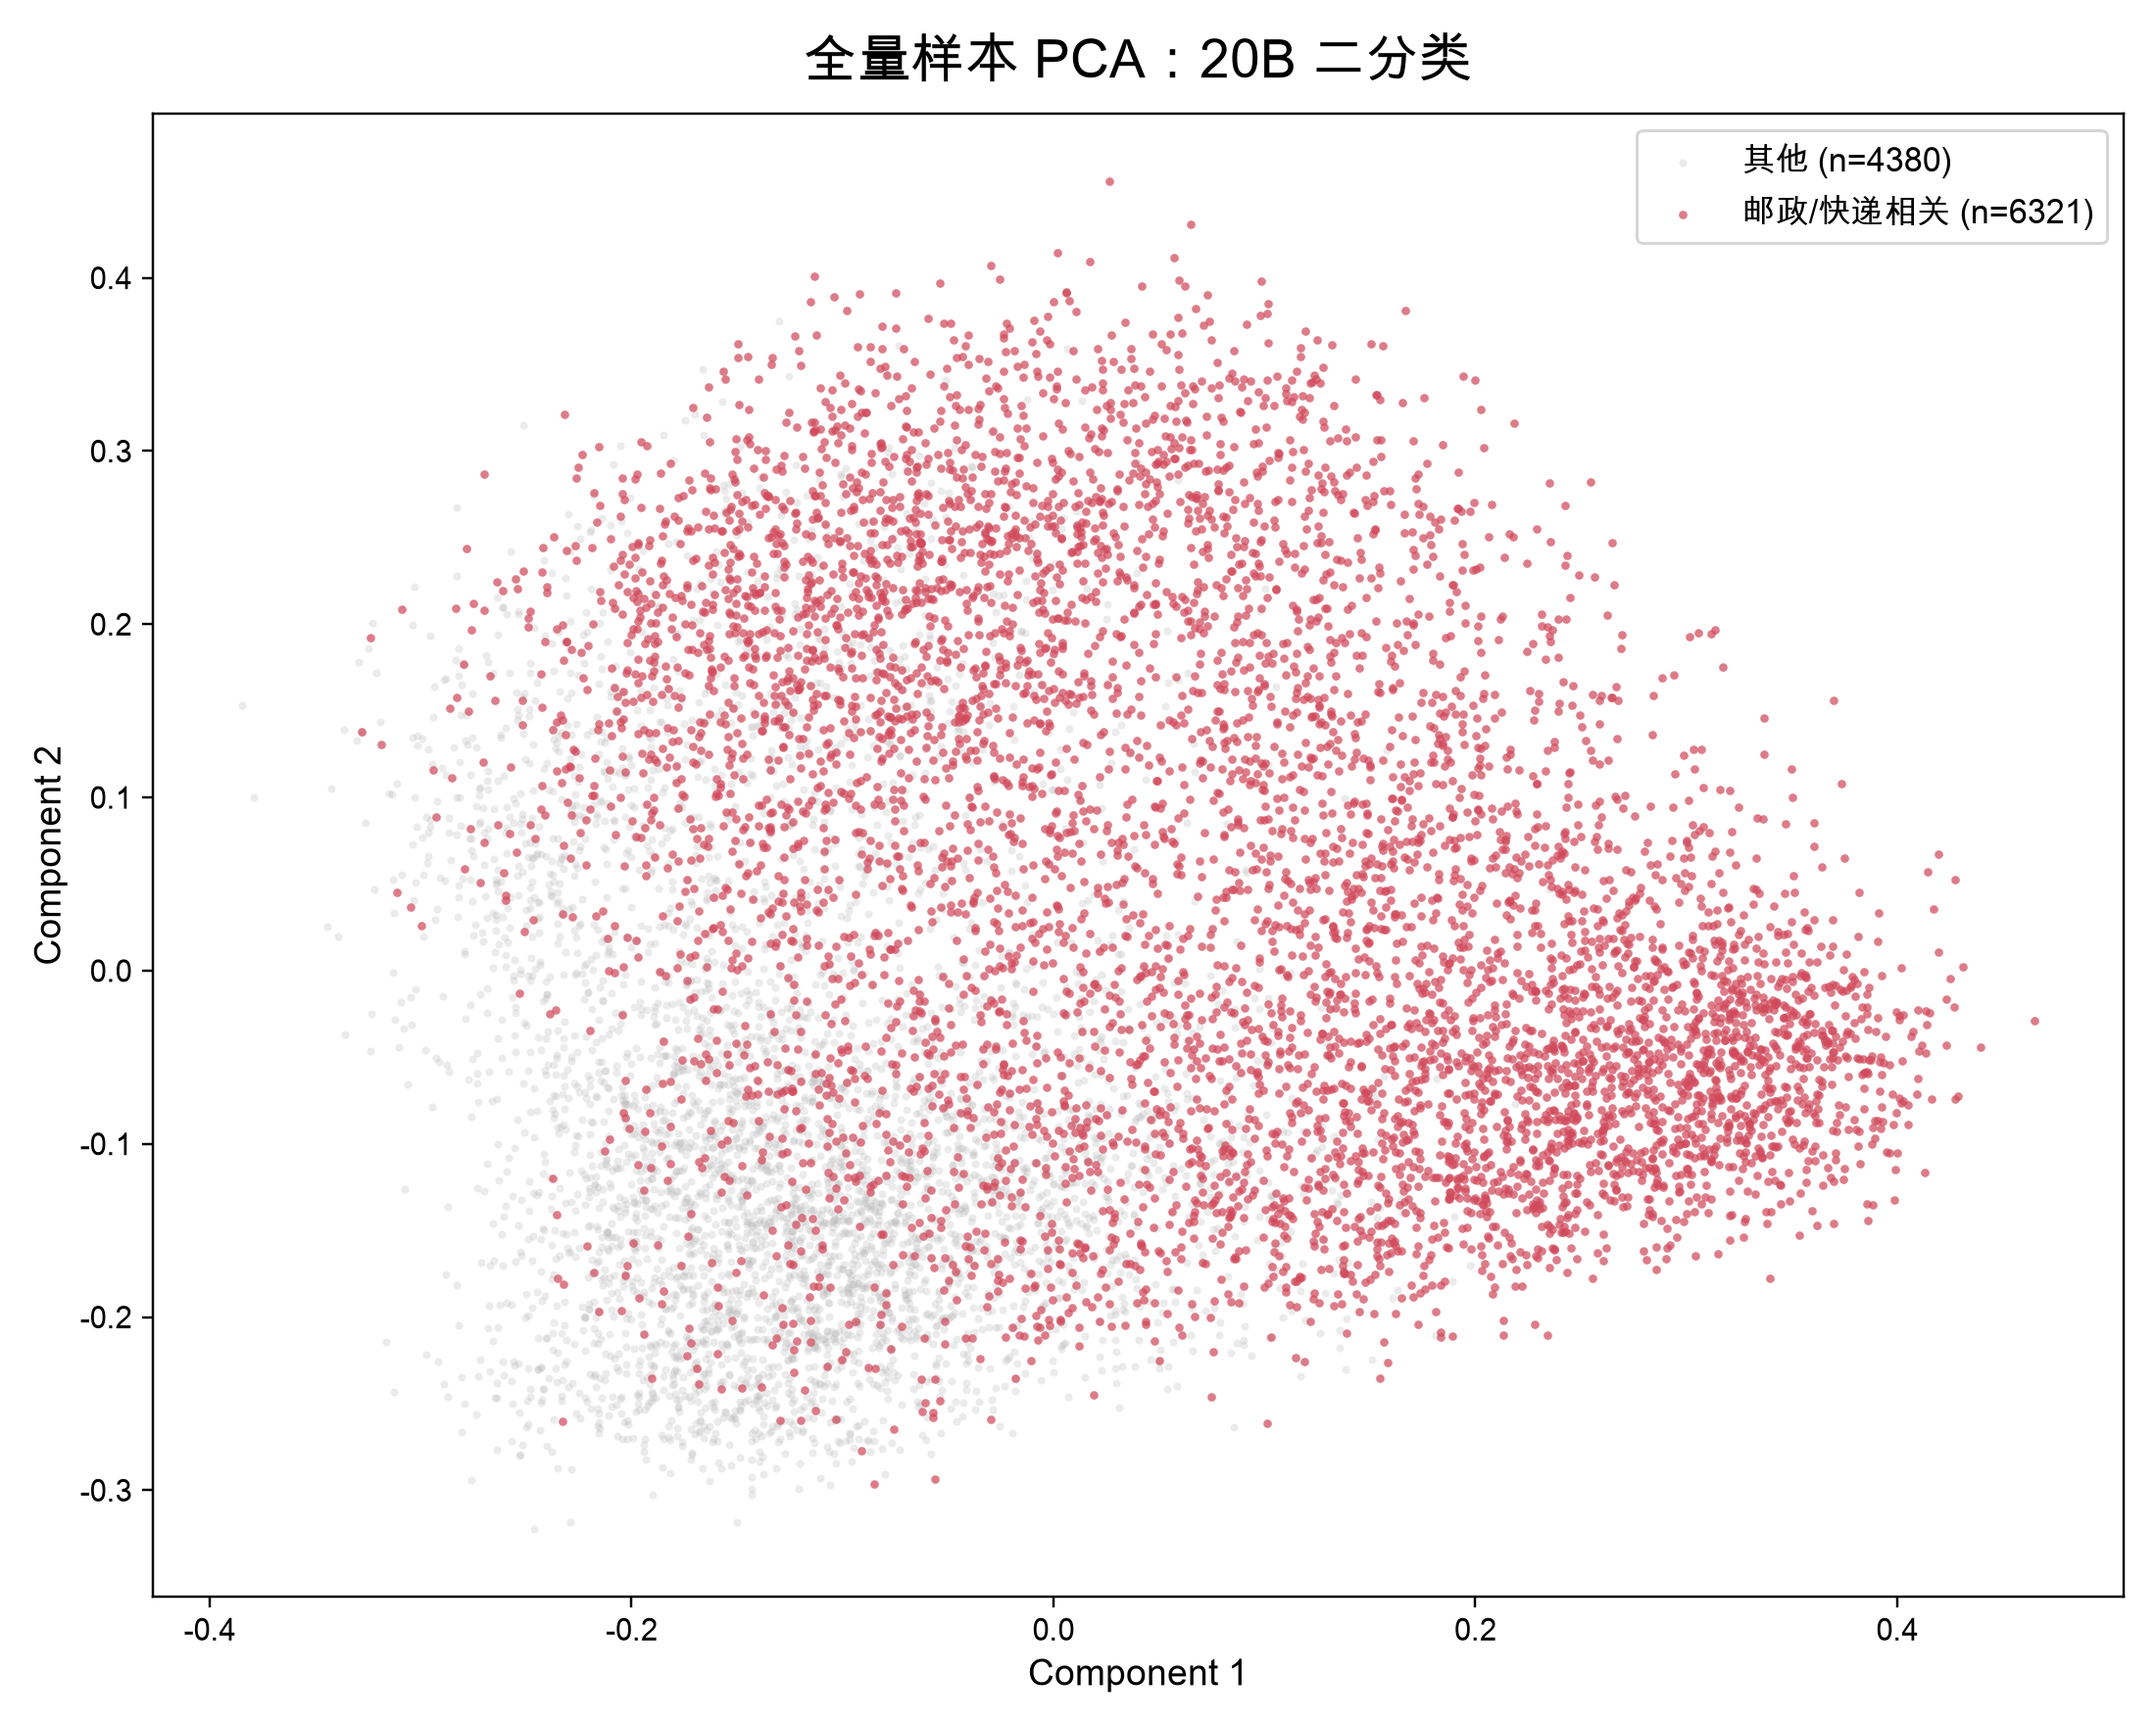
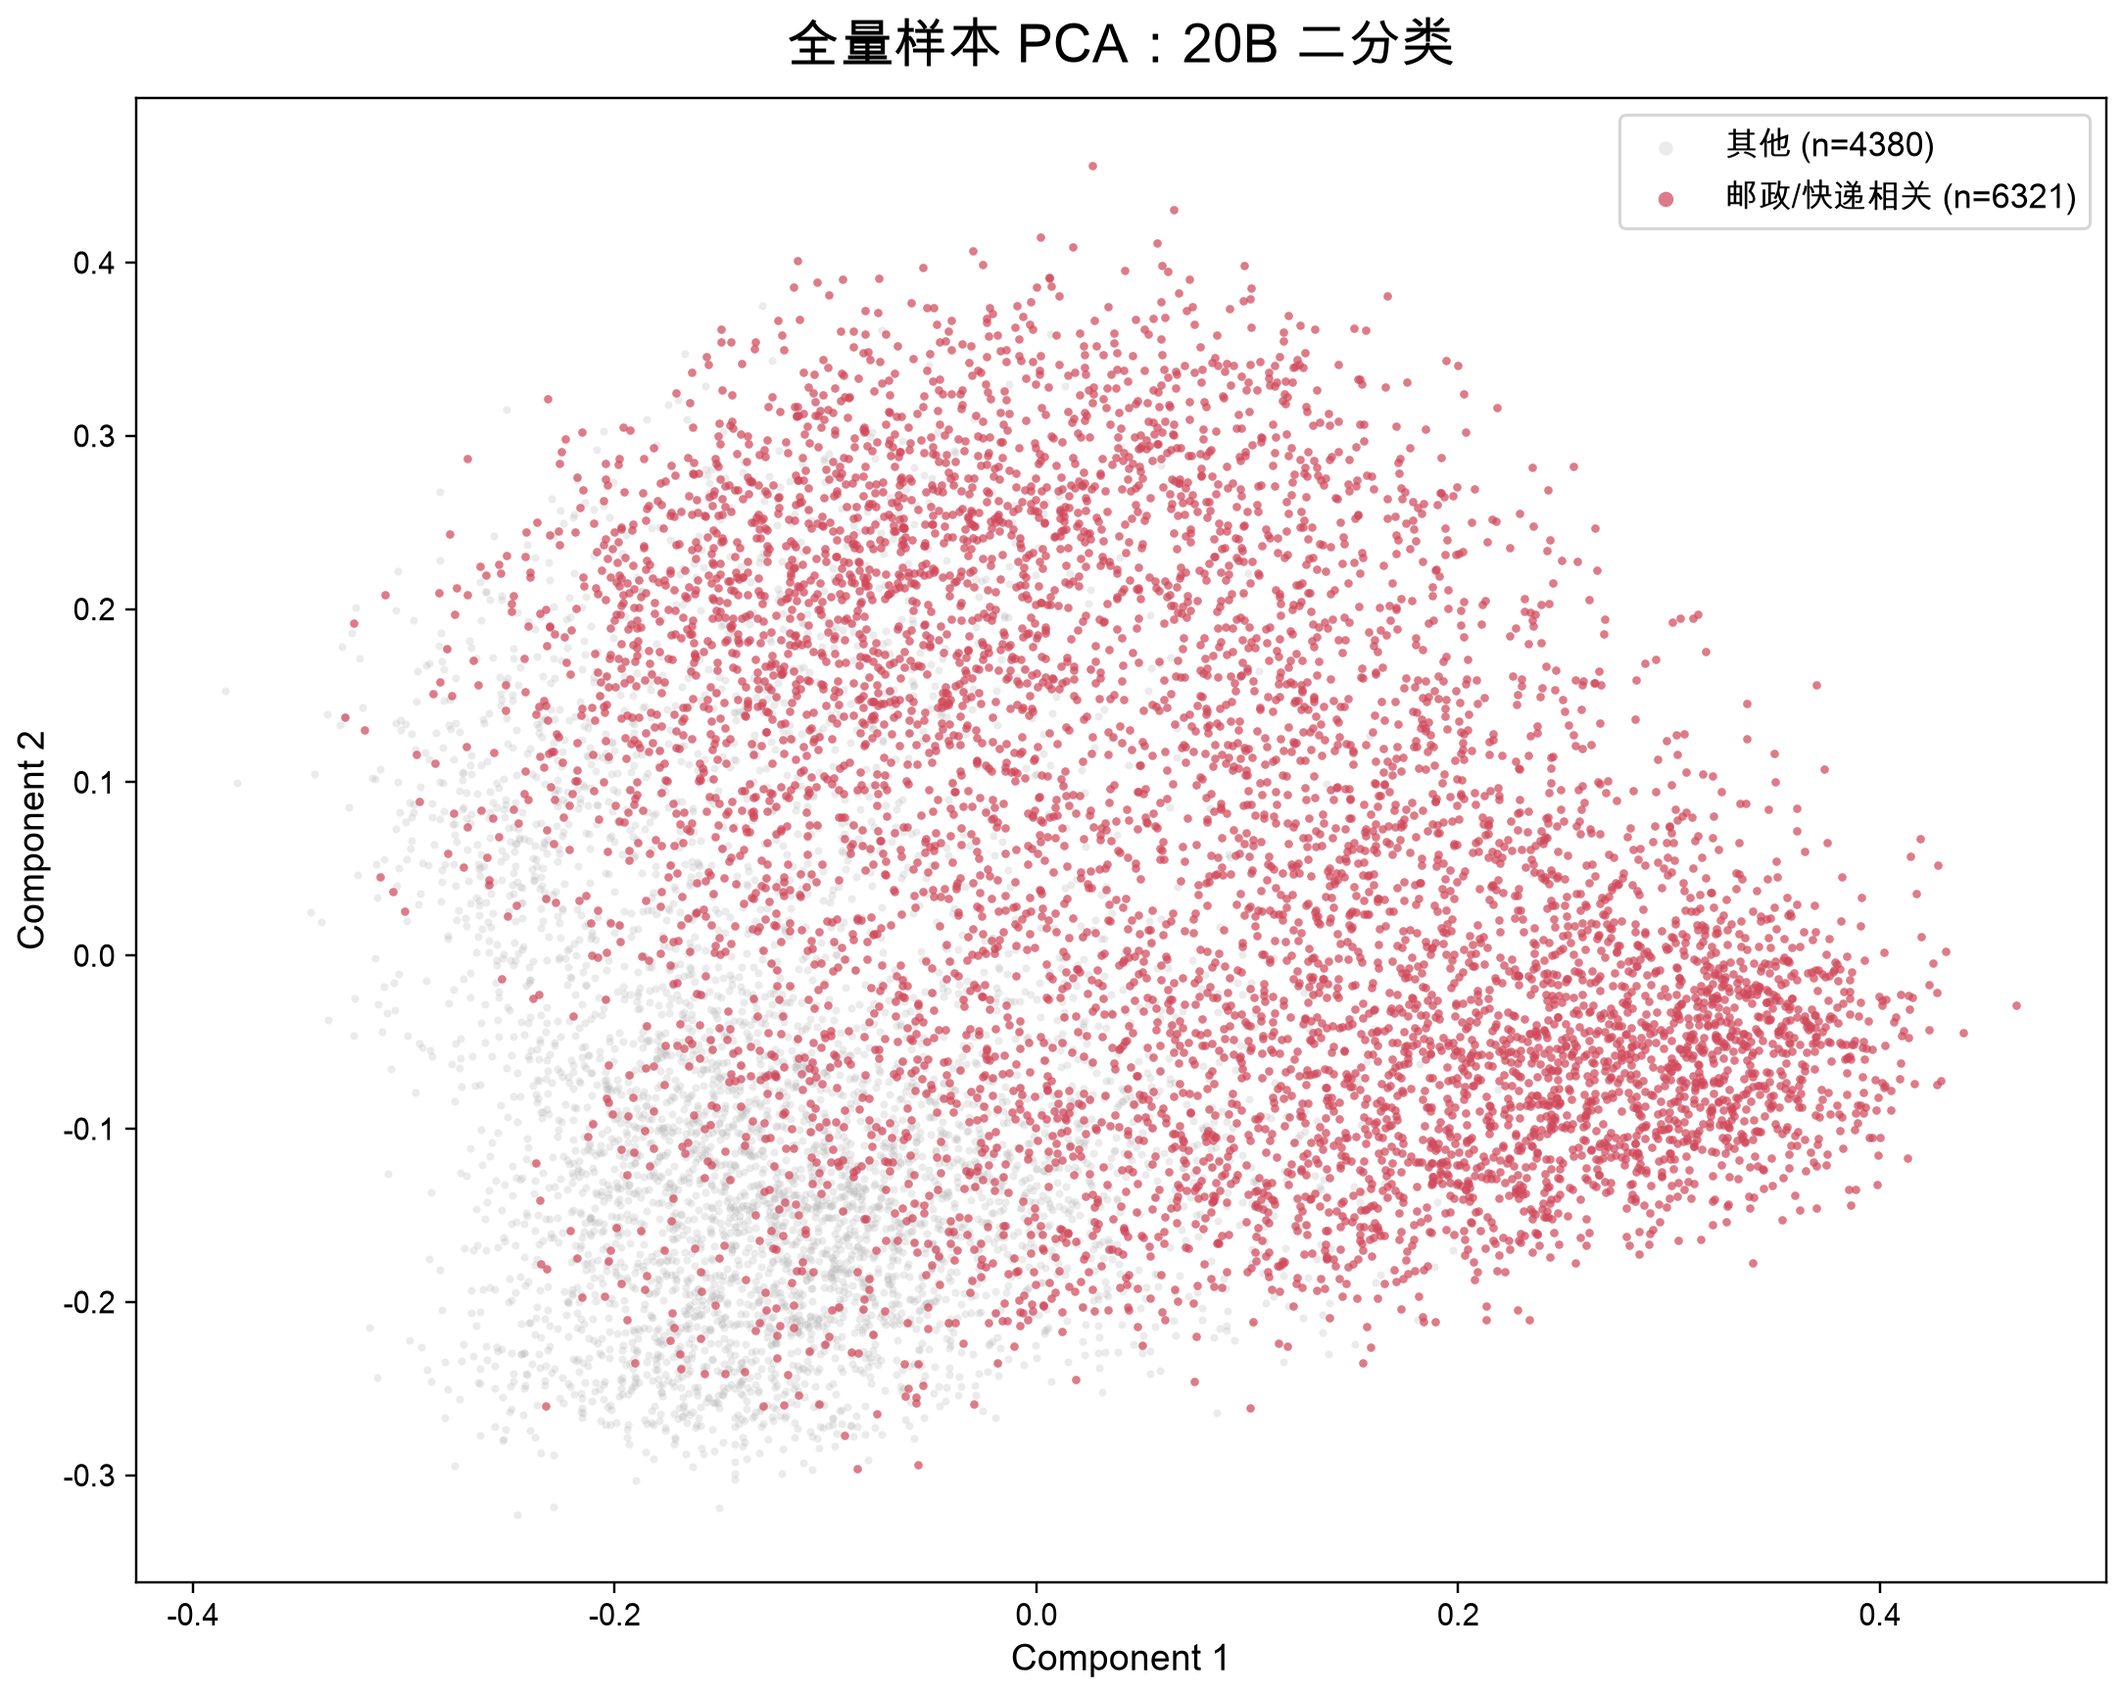
提交最终版周一报告与可视化产物
本次提交收尾 week1 最终报告产物：保留 reports/第一版 与 reports/第二版 下的 6 份最终 PDF，并将它们显式纳入版本控制，便于直接查看交付版本。

同步更新 04 可视化聚类图：图例保持在图外，裁剪右侧空白，放大图例 marker，同时保持图中散点大小不变。

一并提交 README 与 README_CN 中已有的项目说明更新，以及 .gitignore 中关于报告 PDF 的最终规则清理。

Changed region(s): [[0.2164, 0.1561, 0.9275, 0.8428], [0.0, 0.0624, 1.0, 0.9988], [0.371, 0.0, 0.6802, 0.0624]]

diff --git a/week1/第二版/04_可视化聚类与标签优化/generate_visualizations.py b/week1/第二版/04_可视化聚类与标签优化/generate_visualizations.py
@@ -173,9 +173,9 @@ def save_binary_scatter(points: np.ndarray, mask: np.ndarray, title: str, output
     ax.set_title(title, fontsize=18, pad=12)
     ax.set_xlabel("Component 1", fontsize=12)
     ax.set_ylabel("Component 2", fontsize=12)
-    ax.legend(fontsize=11, loc="best", frameon=True)
+    ax.legend(fontsize=11, loc="best", frameon=True, markerscale=1.8)
     fig.tight_layout()
-    fig.savefig(output_path, dpi=220)
+    fig.savefig(output_path, dpi=220, bbox_inches="tight", pad_inches=0.08)
     plt.close(fig)
 
 
@@ -199,9 +199,16 @@ def save_category_scatter(points: np.ndarray, categories: np.ndarray, title: str
     ax.set_title(title, fontsize=18, pad=12)
     ax.set_xlabel("Component 1", fontsize=12)
     ax.set_ylabel("Component 2", fontsize=12)
-    ax.legend(fontsize=10, loc="upper left", bbox_to_anchor=(1.01, 1.0), frameon=True)
-    fig.tight_layout(rect=[0, 0, 0.80, 1])
-    fig.savefig(output_path, dpi=220)
+    ax.legend(
+        fontsize=10,
+        loc="upper left",
+        bbox_to_anchor=(1.01, 1.0),
+        frameon=True,
+        markerscale=2.4,
+        scatterpoints=1,
+    )
+    fig.tight_layout()
+    fig.savefig(output_path, dpi=220, bbox_inches="tight", pad_inches=0.08)
     plt.close(fig)
 
 

diff --git a/README.md b/README.md
@@ -1,6 +1,6 @@
 # ChinaPost Internship
 
-This repository is a reconstructed and organized internship project for China Post customer-service data analysis, postal RAG assistance, and automated transcription tooling.
+This repository is a reconstructed and organized internship project for China Post customer-service data analysis, postal RAG assistance, local Qwen2.5 SFT experiments on Apple MLX, and automated transcription tooling.
 
 > Note: this is a reconstructed historical internship project. Git commit timestamps represent the time when the files were reorganized into this repository, not the original development timeline. The original remote internship machine is no longer available, so this repository was rebuilt from the available materials and requirements.
 
@@ -10,6 +10,7 @@ Chinese documentation is available in [README_CN.md](README_CN.md).
 
 - `week1/`: postal customer-service data filtering, statistical analysis, keyword extraction, visualization, model selection notes, and classification boundary-case analysis.
 - `week2/`: postal intelligent customer-service RAG system, including data organization and the Django application.
+- `week3/`: Apple MLX LoRA fine-tuning workflow for Qwen2.5 3B / 7B Instruct models, with training-time regression evaluation and best-adapter retention.
 - `Whisper-main/`: a batch transcription tool for public meetings and course recordings.
 
 ## Week 1
@@ -38,6 +39,30 @@ Supporting tools:
 
 ![Django Week 2 UI](django_week2.png)
 
+## Week 3
+
+`week3` contains the local SFT workflow for postal customer-service model adaptation on Apple Silicon.
+
+- `week3/PRD_Qwen2.5_MLX_LoRA微调方案.md`: product and technical plan for Qwen2.5 3B / 7B MLX LoRA fine-tuning.
+- `week3/mlx_qwen_sft`: the reproducible MLX training project.
+- Base models are `Qwen/Qwen2.5-3B-Instruct` and `Qwen/Qwen2.5-7B-Instruct`.
+- The workflow uses `mlx-lm` LoRA configuration files, not CUDA or NVIDIA-specific tooling.
+- Raw and generated training data, adapters, fused models, logs, evaluation outputs, and plots are excluded from git.
+
+The Week 3 workflow includes scripted steps for:
+
+- organizing raw SFT data into the MLX project layout;
+- converting raw JSON into chat-style JSONL for `mlx-lm`;
+- downloading C-Eval samples and generating postal-domain, format, and safety evaluation sets;
+- running chunked LoRA training with regression checks during training;
+- keeping only one best adapter under `adapters/best/<label>/`;
+- stopping training when collapse gates are triggered;
+- exporting evaluation summaries and JPG plots.
+
+Main entry point:
+
+- `week3/mlx_qwen_sft/README.md`
+
 ## Whisper-main
 
 `Whisper-main` is a tool for batch automated accurate transcription of public meetings and course content. It supports audio/video inputs, subtitle generation, and transcription-result organization.
@@ -54,6 +79,10 @@ Detailed startup, database migration, PostgreSQL, Ollama, and Django service ins
 - `week2/post-service-agent/README.md`
 - `week2/post-service-agent/QUICKSTART.md`
 - `week2/post-service-agent/docs/`
+
+Week 3 MLX fine-tuning instructions are maintained in:
+
+- `week3/mlx_qwen_sft/README.md`
 
 After the Django service starts, Swagger / API documentation is available at:
 

diff --git a/README_CN.md b/README_CN.md
@@ -1,6 +1,6 @@
 # ChinaPost Internship / 邮政实习项目
 
-本仓库按周整理邮政客服数据分析、RAG 智能客服和语音转写相关实验代码。当前主要包含 `week1`、`week2` 和 `Whisper-main` 三部分。
+本仓库按周整理邮政客服数据分析、RAG 智能客服、本地 Qwen2.5 微调实验和语音转写相关代码。当前主要包含 `week1`、`week2`、`week3` 和 `Whisper-main` 四部分。
 
 说明：这是对历史实习项目的重新整理版本，git commit 时间仅代表本次整理入库时间，不代表原始实习开发时间。由于实习期间使用的远程电脑无法继续获取原文件，本仓库按现有资料和需求重新复现、整理和补全。
 
@@ -30,6 +30,30 @@
 
 ![Django Week 2 界面](django_week2.png)
 
+## Week 3
+
+`week3` 主要是在 Apple Silicon 本地环境中，使用 Apple MLX 路线对 Qwen2.5 进行邮政客服场景 SFT。
+
+- `week3/PRD_Qwen2.5_MLX_LoRA微调方案.md`：Qwen2.5 3B / 7B 的 MLX LoRA 微调 PRD 和技术方案。
+- `week3/mlx_qwen_sft`：可复现的 MLX 微调工程。
+- 基座模型使用 `Qwen/Qwen2.5-3B-Instruct` 和 `Qwen/Qwen2.5-7B-Instruct`。
+- 训练工具以 `mlx-lm` 为主，不依赖 CUDA、bitsandbytes 或 NVIDIA 训练栈。
+- 原始数据、派生训练数据、adapter、融合模型、训练日志、评估输出和绘图产物都已在 `.gitignore` 中排除。
+
+第三周工程包含完整脚本流程：
+
+- 整理 raw SFT 数据到 MLX 工程目录。
+- 将 raw JSON 转换成 `mlx-lm` 可训练的 chat JSONL。
+- 下载 C-Eval 小样本，并生成邮政专项、JSON 格式和安全边界评估集。
+- 分段训练 Qwen2.5 LoRA，并在训练过程中做回归评估。
+- 只保留一个 best adapter，路径为 `adapters/best/<label>/`。
+- 触发退化 gate 时停止训练，并回到 best adapter。
+- 输出评估汇总和 JPG 图表。
+
+第三周运行入口：
+
+- `week3/mlx_qwen_sft/README.md`
+
 ## Whisper-main
 
 `Whisper-main` 是用于对公开会议和课程内容进行批量自动化精确转录的工具，支持音视频输入、字幕生成和转写结果整理。代码可以纳入版本控制，但运行时产生的大文件不进入 git：
@@ -44,6 +68,10 @@
 - `week2/post-service-agent/README.md`
 - `week2/post-service-agent/QUICKSTART.md`
 - `week2/post-service-agent/docs/`
+
+第三周 MLX 微调工程说明在：
+
+- `week3/mlx_qwen_sft/README.md`
 
 Swagger / API 文档入口在 Django 服务启动后的：
 
